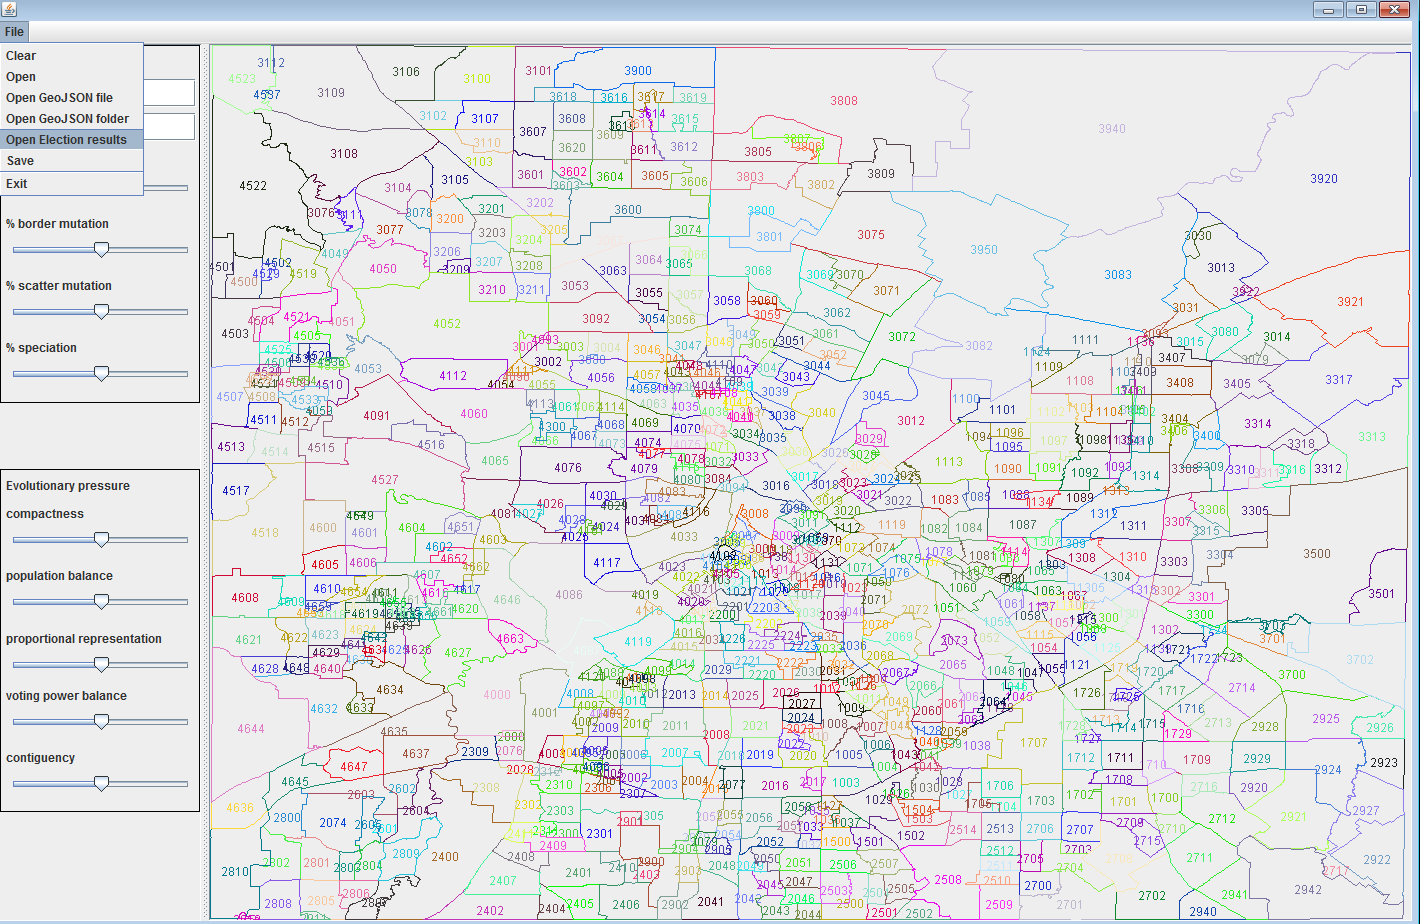
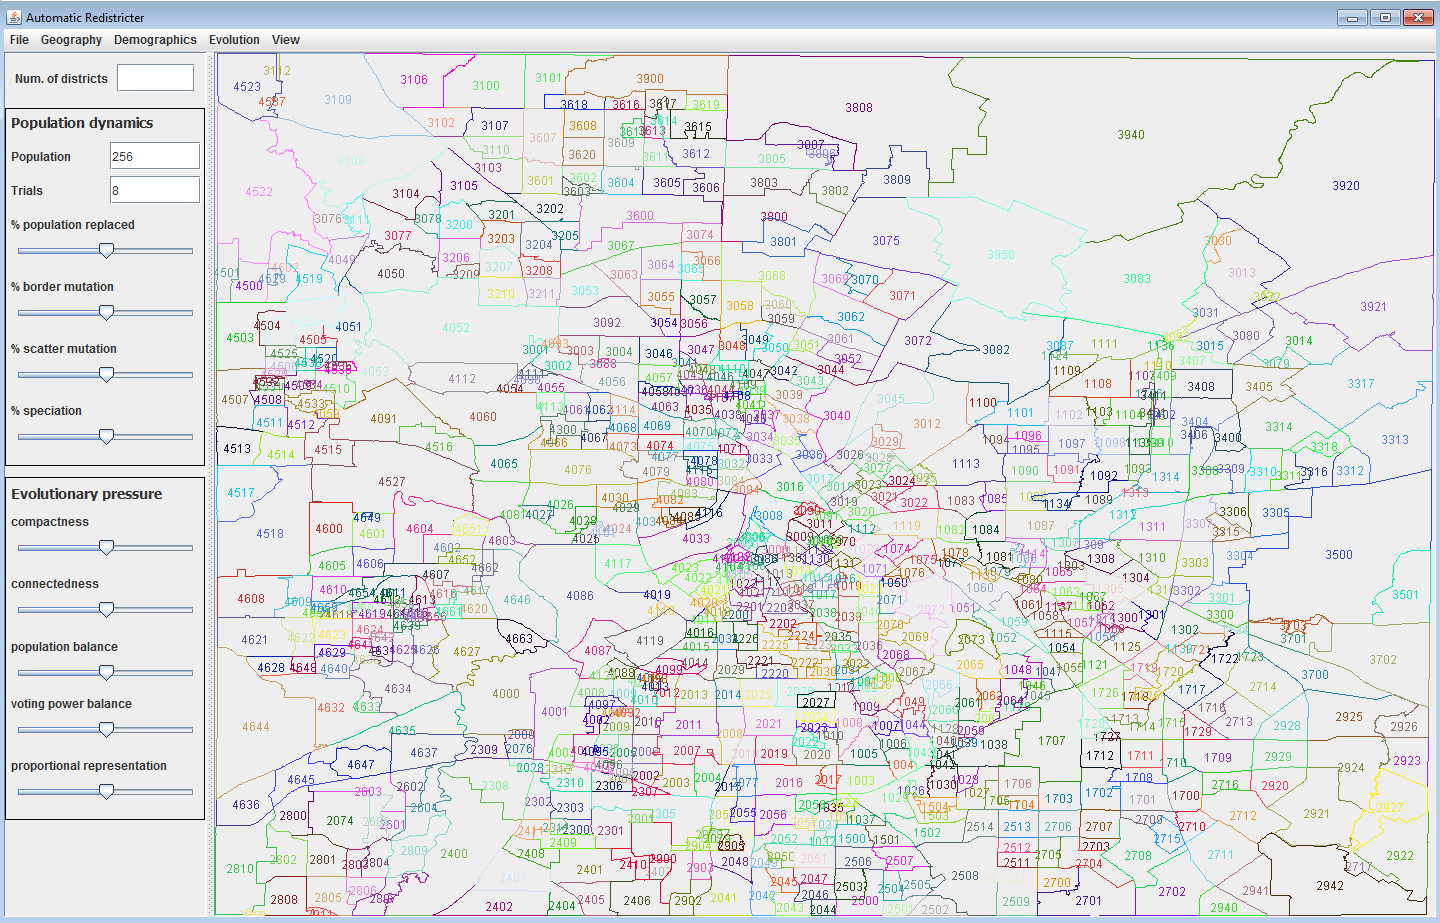
a

diff --git a/src/ui/MainFrame.java b/src/ui/MainFrame.java
@@ -41,8 +41,11 @@ public class MainFrame extends JFrame {
 
 	public Ecology ecology = new Ecology();
 	public FeatureCollection featureCollection = new FeatureCollection();
+	private JTextField textField_2;
 	
 	public MainFrame() {
+		setDefaultCloseOperation(JFrame.EXIT_ON_CLOSE);
+		setTitle("Automatic Redistricter");
 		Dimension d = new Dimension(800,1024);
 		//this.setPreferredSize(d);
 		this.setSize(d);
@@ -57,152 +60,30 @@ public class MainFrame extends JFrame {
 			}
 		});
 		menuBar.add(mnFile);
+		mnFile.add(new JSeparator());
 		
-		JMenuItem mntmOpen = new JMenuItem("Open");
-		mntmOpen.addActionListener(new ActionListener() {
+		JMenuItem mntmExit = new JMenuItem("Exit");
+		mntmExit.addActionListener(new ActionListener() {
 			public void actionPerformed(ActionEvent e) {
-				JFileChooser jfc = new JFileChooser();
-				jfc.showOpenDialog(null);
-				File f = jfc.getSelectedFile();
-				StringBuffer sb = new StringBuffer();
-				try {
-					FileInputStream fis = new FileInputStream(f);
-					while( fis.available() > 0) {
-						byte[] bb = new byte[fis.available()];
-						fis.read(bb);
-						sb.append(new String(bb));
-						Thread.sleep(10);
-					}
-					
-					fis.close();
-				} catch (Exception ex) {
-					// TODO Auto-generated catch block
-					ex.printStackTrace();
-					return;
-				} 
-				
-				ecology = new Ecology();
-				try {
-					ecology.fromJSON(sb.toString());
-				} catch (Exception ex) {
-					System.out.println("ex "+ex);
-					ex.printStackTrace();
-				}
-
+				System.exit(0);
 			}
 		});
+		mnFile.add(mntmExit);
 		
-		JMenuItem mntmClear = new JMenuItem("Clear");
-		mnFile.add(mntmClear);
-		mnFile.add(mntmOpen);
+		JMenu mnGeography = new JMenu("Geography");
+		menuBar.add(mnGeography);
 		
 		JMenuItem mntmOpenGeojson = new JMenuItem("Open GeoJSON file");
-		mntmOpenGeojson.addActionListener(new ActionListener() {
-			public void actionPerformed(ActionEvent arg0) {
-				JFileChooser jfc = new JFileChooser();
-				//jfc.setFileSelectionMode(JFileChooser.DIRECTORIES_ONLY);
-				//jfc.sh
-				jfc.showOpenDialog(null);
-				File fd = jfc.getSelectedFile();
-				/*if( !fd.isDirectory()) {
-					return;
-				}*/
-				File[] ff = new File[]{fd};//fd.listFiles();
-				
-				featureCollection = new FeatureCollection(); 
-				featureCollection.features = new Vector<Feature>();
-				HashMap<String,Feature> hmFeatures = new HashMap<String,Feature>();
-				
-				for( int i = 0; i < ff.length; i++) {
-					String s = ff[i].getName().toLowerCase();
-					if(s.indexOf(".json") < 0) {
-						continue;
-					}
-					System.out.println("Processing "+s+"...");
-					File f = ff[i];
-					StringBuffer sb = new StringBuffer();
-					try {
-						FileInputStream fis = new FileInputStream(f);
-						while( fis.available() > 0) {
-							byte[] bb = new byte[fis.available()];
-							fis.read(bb);
-							sb.append(new String(bb));
-							Thread.sleep(10);
-						}
-						
-						fis.close();
-					} catch (Exception ex) {
-						// TODO Auto-generated catch block
-						ex.printStackTrace();
-						return;
-					} 
-					
-					FeatureCollection fc = new FeatureCollection();
-					try {
-						fc.fromJSON(sb.toString());
-					} catch (Exception ex) {
-						System.out.println("ex "+ex);
-						ex.printStackTrace();
-					}
-					for( Feature fe : fc.features) {
-						//if( fe.properties.DISTRICT != null && !fe.properties.DISTRICT.toLowerCase().equals("null") ) {
-						if( suppress_duplicates) {
-							hmFeatures.put(fe.properties.DISTRICT, fe);
-						} else {
-							featureCollection.features.add(fe);
-						}
-						//}
-					}
-					
-				}
-				for( Feature fe : hmFeatures.values()) {
-					featureCollection.features.add(fe);
-				}
-				Vector<Feature> features = featureCollection.features;
-				System.out.println(features.size()+" precincts loaded.");
-				System.out.println("Initializing blocks...");
-				featureCollection.initBlocks();
-				minx = features.get(0).geometry.coordinates[0][0][0];
-				maxx = features.get(0).geometry.coordinates[0][0][0];
-				miny = features.get(0).geometry.coordinates[0][0][1];
-				maxy = features.get(0).geometry.coordinates[0][0][1];
-				HashSet<String> types = new HashSet<String>();
-				for( Feature f : features) {
-					double[][][] coordinates2 = f.geometry.coordinates;
-					for( int j = 0; j < coordinates2.length; j++) {
-						double[][] coordinates = coordinates2[j];
-						for( int i = 0; i < coordinates.length; i++) {
-							if( coordinates[i][0] < minx) {
-								minx = coordinates[i][0];
-							}
-							if( coordinates[i][0] > maxx) {
-								maxx = coordinates[i][0];
-							}
-							if( coordinates[i][1] < miny) {
-								miny = coordinates[i][1];
-							}
-							if( coordinates[i][1] > maxy) {
-								maxy = coordinates[i][1];
-							}
-						}
-					}					
-				}
-				System.out.println(""+minx+","+miny);
-				System.out.println(""+maxx+","+maxy);
-				
-				mapPanel.minx = minx;
-				mapPanel.miny = miny;
-				mapPanel.maxx = maxx;
-				mapPanel.maxy = maxy;
-				mapPanel.features = features;
-				mapPanel.invalidate();
-				mapPanel.repaint();
-				System.out.println("Ready.");
-			}
-		});
-		mnFile.add(mntmOpenGeojson);
+		mnGeography.add(mntmOpenGeojson);
 		
 		JMenuItem mntmOpenGeojsonFolder = new JMenuItem("Open GeoJSON folder");
+		mnGeography.add(mntmOpenGeojsonFolder);
+		
+		JSeparator separator_1 = new JSeparator();
+		mnGeography.add(separator_1);
+		
+		JCheckBoxMenuItem chckbxmntmLatitudeLongitude = new JCheckBoxMenuItem("Latitude / Longitude?");
+		mnGeography.add(chckbxmntmLatitudeLongitude);
 		mntmOpenGeojsonFolder.addActionListener(new ActionListener() {
 			public void actionPerformed(ActionEvent arg0) {
 				JFileChooser jfc = new JFileChooser();
@@ -308,9 +189,115 @@ public class MainFrame extends JFrame {
 
 			}
 		});
-		mnFile.add(mntmOpenGeojsonFolder);
+		mntmOpenGeojson.addActionListener(new ActionListener() {
+			public void actionPerformed(ActionEvent arg0) {
+				JFileChooser jfc = new JFileChooser();
+				//jfc.setFileSelectionMode(JFileChooser.DIRECTORIES_ONLY);
+				//jfc.sh
+				jfc.showOpenDialog(null);
+				File fd = jfc.getSelectedFile();
+				/*if( !fd.isDirectory()) {
+					return;
+				}*/
+				File[] ff = new File[]{fd};//fd.listFiles();
+				
+				featureCollection = new FeatureCollection(); 
+				featureCollection.features = new Vector<Feature>();
+				HashMap<String,Feature> hmFeatures = new HashMap<String,Feature>();
+				
+				for( int i = 0; i < ff.length; i++) {
+					String s = ff[i].getName().toLowerCase();
+					if(s.indexOf(".json") < 0) {
+						continue;
+					}
+					System.out.println("Processing "+s+"...");
+					File f = ff[i];
+					StringBuffer sb = new StringBuffer();
+					try {
+						FileInputStream fis = new FileInputStream(f);
+						while( fis.available() > 0) {
+							byte[] bb = new byte[fis.available()];
+							fis.read(bb);
+							sb.append(new String(bb));
+							Thread.sleep(10);
+						}
+						
+						fis.close();
+					} catch (Exception ex) {
+						// TODO Auto-generated catch block
+						ex.printStackTrace();
+						return;
+					} 
+					
+					FeatureCollection fc = new FeatureCollection();
+					try {
+						fc.fromJSON(sb.toString());
+					} catch (Exception ex) {
+						System.out.println("ex "+ex);
+						ex.printStackTrace();
+					}
+					for( Feature fe : fc.features) {
+						//if( fe.properties.DISTRICT != null && !fe.properties.DISTRICT.toLowerCase().equals("null") ) {
+						if( suppress_duplicates) {
+							hmFeatures.put(fe.properties.DISTRICT, fe);
+						} else {
+							featureCollection.features.add(fe);
+						}
+						//}
+					}
+					
+				}
+				for( Feature fe : hmFeatures.values()) {
+					featureCollection.features.add(fe);
+				}
+				Vector<Feature> features = featureCollection.features;
+				System.out.println(features.size()+" precincts loaded.");
+				System.out.println("Initializing blocks...");
+				featureCollection.initBlocks();
+				minx = features.get(0).geometry.coordinates[0][0][0];
+				maxx = features.get(0).geometry.coordinates[0][0][0];
+				miny = features.get(0).geometry.coordinates[0][0][1];
+				maxy = features.get(0).geometry.coordinates[0][0][1];
+				HashSet<String> types = new HashSet<String>();
+				for( Feature f : features) {
+					double[][][] coordinates2 = f.geometry.coordinates;
+					for( int j = 0; j < coordinates2.length; j++) {
+						double[][] coordinates = coordinates2[j];
+						for( int i = 0; i < coordinates.length; i++) {
+							if( coordinates[i][0] < minx) {
+								minx = coordinates[i][0];
+							}
+							if( coordinates[i][0] > maxx) {
+								maxx = coordinates[i][0];
+							}
+							if( coordinates[i][1] < miny) {
+								miny = coordinates[i][1];
+							}
+							if( coordinates[i][1] > maxy) {
+								maxy = coordinates[i][1];
+							}
+						}
+					}					
+				}
+				System.out.println(""+minx+","+miny);
+				System.out.println(""+maxx+","+maxy);
+				
+				mapPanel.minx = minx;
+				mapPanel.miny = miny;
+				mapPanel.maxx = maxx;
+				mapPanel.maxy = maxy;
+				mapPanel.features = features;
+				mapPanel.invalidate();
+				mapPanel.repaint();
+				System.out.println("Ready.");
+			}
+		});
+		
+		JMenu mnDemographics = new JMenu("Demographics");
+		menuBar.add(mnDemographics);
 		
 		JMenuItem mntmOpenElectionResults = new JMenuItem("Open Election results");
+		mnDemographics.add(mntmOpenElectionResults);
 		mntmOpenElectionResults.addActionListener(new ActionListener() {
 			public void actionPerformed(ActionEvent arg0) {
 				JFileChooser jfc = new JFileChooser();
@@ -371,19 +358,30 @@ public class MainFrame extends JFrame {
 				
 			}
 		});
-		mnFile.add(mntmOpenElectionResults);
 		
-		JMenuItem mntmSave = new JMenuItem("Save");
-		mnFile.add(mntmSave);
-		mnFile.add(new JSeparator());
+		JMenu mnEvolution = new JMenu("Evolution");
+		menuBar.add(mnEvolution);
 		
-		JMenuItem mntmExit = new JMenuItem("Exit");
-		mntmExit.addActionListener(new ActionListener() {
-			public void actionPerformed(ActionEvent e) {
-				System.exit(0);
-			}
-		});
-		mnFile.add(mntmExit);
+		JMenuItem mntmInitialize = new JMenuItem("Initialize");
+		mnEvolution.add(mntmInitialize);
+		
+		JSeparator separator = new JSeparator();
+		mnEvolution.add(separator);
+		
+		JMenuItem mntmStart = new JMenuItem("Start");
+		mnEvolution.add(mntmStart);
+		
+		JMenuItem mntmPause = new JMenuItem("Pause");
+		mnEvolution.add(mntmPause);
+		
+		JMenu mnView = new JMenu("View");
+		menuBar.add(mnView);
+		
+		JCheckBoxMenuItem chckbxmntmFlipVertical = new JCheckBoxMenuItem("Flip vertical");
+		mnView.add(chckbxmntmFlipVertical);
+		
+		JCheckBoxMenuItem chckbxmntmFlipHorizontal = new JCheckBoxMenuItem("Flip horizontal");
+		mnView.add(chckbxmntmFlipHorizontal);
 		
 		JSplitPane splitPane = new JSplitPane();
 		getContentPane().add(splitPane, BorderLayout.CENTER);
@@ -415,6 +413,7 @@ public class MainFrame extends JFrame {
 		panel_2.add(slider_7);
 		
 		JLabel lblEvolutionaryPressure = new JLabel("Evolutionary pressure");
+		lblEvolutionaryPressure.setFont(new Font("Tahoma", Font.BOLD, 14));
 		lblEvolutionaryPressure.setBounds(6, 8, 179, 16);
 		panel_2.add(lblEvolutionaryPressure);
 		
@@ -438,7 +437,7 @@ public class MainFrame extends JFrame {
 		
 		JPanel panel_3 = new JPanel();
 		panel_3.setBorder(new LineBorder(new Color(0, 0, 0)));
-		panel_3.setBounds(0, 0, 200, 358);
+		panel_3.setBounds(0, 55, 200, 358);
 		panel.add(panel_3);
 		panel_3.setLayout(null);
 		
@@ -468,6 +467,7 @@ public class MainFrame extends JFrame {
 		textField.setColumns(10);
 		
 		JLabel lblNewLabel = new JLabel("Population dynamics");
+		lblNewLabel.setFont(new Font("Tahoma", Font.BOLD, 14));
 		lblNewLabel.setBounds(6, 6, 159, 16);
 		panel_3.add(lblNewLabel);
 		textField_1.setBounds(105, 68, 91, 28);
@@ -523,6 +523,15 @@ public class MainFrame extends JFrame {
 		});
 		slider_8.setBounds(6, 315, 190, 29);
 		panel_3.add(slider_8);
+		
+		textField_2 = new JTextField();
+		textField_2.setColumns(10);
+		textField_2.setBounds(112, 11, 78, 28);
+		panel.add(textField_2);
+		
+		JLabel lblNumOfDistricts = new JLabel("Num. of districts");
+		lblNumOfDistricts.setBounds(10, 17, 94, 16);
+		panel.add(lblNumOfDistricts);
 		slider_2.addChangeListener(new ChangeListener() {
 			public void stateChanged(ChangeEvent e) {
 				Settings.mutation_rate = slider_2.getValue()/100.0;
